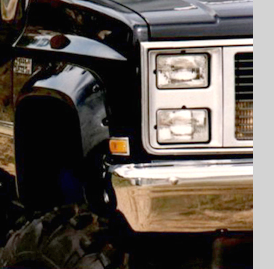
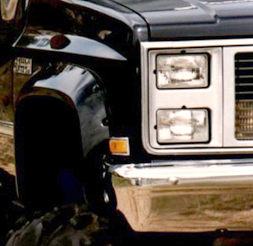
working on the top nav images

diff --git a/index.html b/index.html
@@ -1361,7 +1361,7 @@
 							                <li>
 							                    <div class="main-second-slider">
 							                        <div class="blog-details">
-							                          	<img src="/assets/application/lundinternationalcorp/images/corp/History/History_15.jpg" alt="Rampage Products acquired" title="Rampage Products acquired" width="253" height="246" />
+							                          	<img src="/assets/application/lundinternationalcorp/images/corp/History/History_15.png" alt="Rampage Products acquired" title="Rampage Products acquired" width="253" height="246" />
 							                        </div>
 							                        <div class="content-slider">
 							                            <h3>2014</h3>
